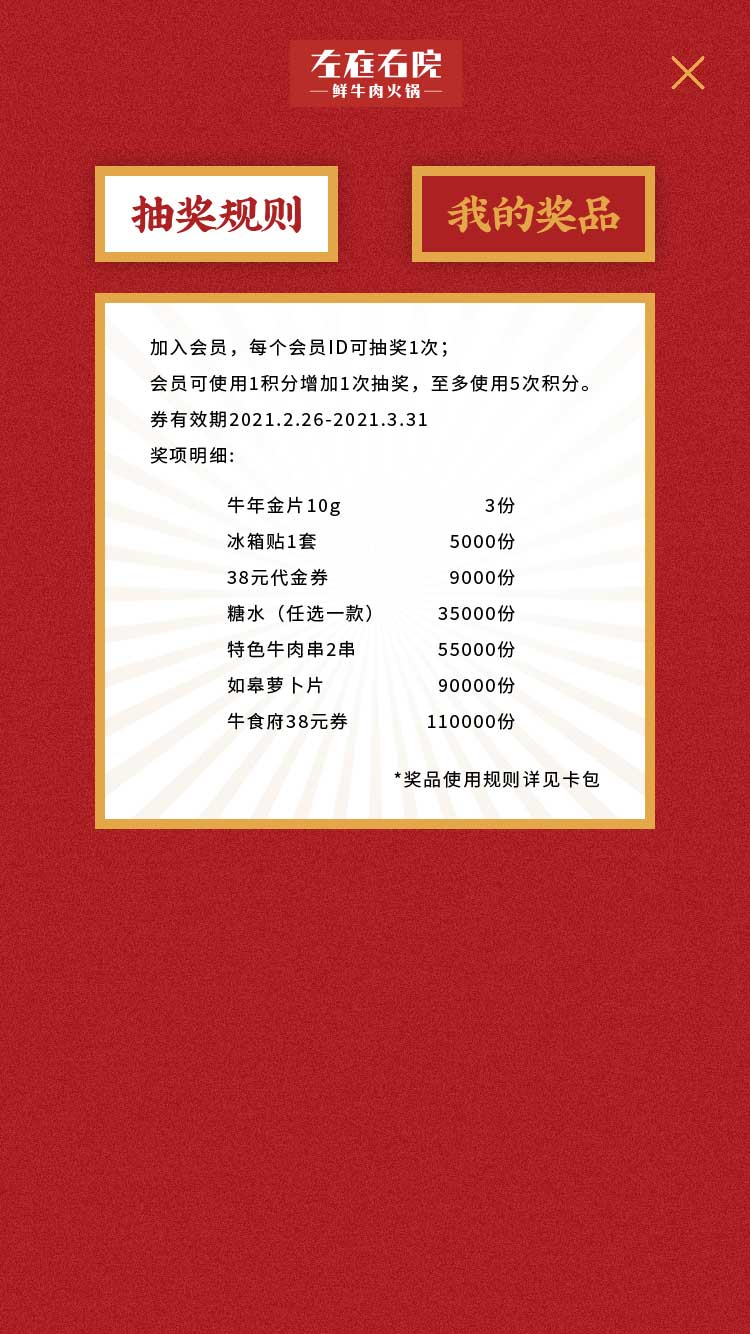
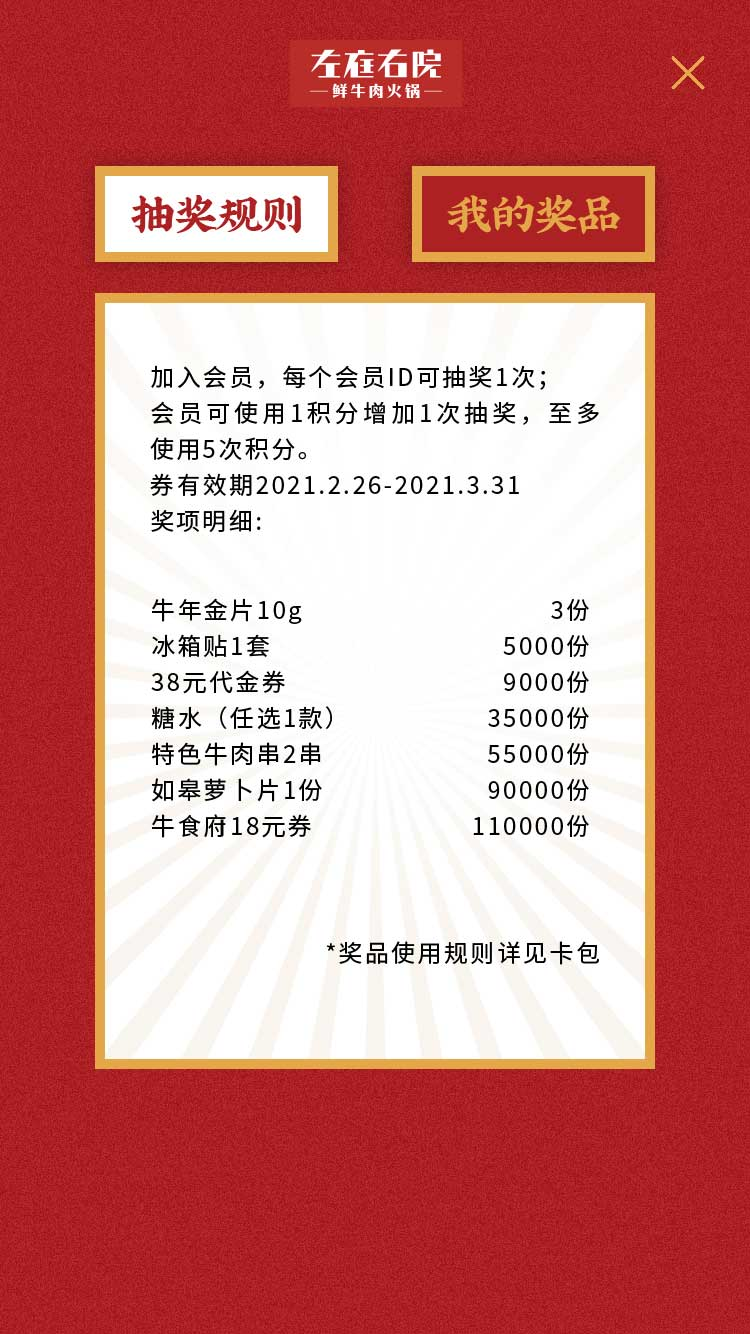
更新规则

Changed region(s): [[0.1227, 0.2459, 0.8893, 0.7991]]

diff --git a/左庭右院_抽奖/index.html b/左庭右院_抽奖/index.html
@@ -151,17 +151,44 @@
       <img src="img/game/game_5.jpg">
       <img src="img/game/game_6.jpg">
     </div>
-    <audio src="img/sound.mp3" loop="loop" autoplay="autoplay" id="media1"></audio>
+    <!-- <audio src="img/sound.mp3" loop="loop" autoplay="autoplay" id="media1"></audio> -->
   </div>
 </body>
 <script>
   $(function () {
     // $('.page2').show()
     /** 播放声音 */
-    setTimeout(() => {
-      let media1 = $("#media1").get(0)
-      media1.play()
-    }, 500)
+    // setTimeout(() => {
+    //   let media1 = $("#media1").get(0)
+    //   media1.play()
+    // }, 500)
+    function initMusic() {
+      //动态创建一个audio节点
+      var audio = document.createElement('audio');
+      audio.setAttribute('id', 'media1');
+      audio.setAttribute('autoplay', 'autoplay');
+      audio.setAttribute('loop', 'loop');
+      audio.innerHTML = '<source src="img/sound.mp3" type="audio/mpeg">';
+      
+      //将audio节点追加到dom
+      document.body.appendChild(audio);
+      audio.load();
+      
+     //iOS Safari可能是出于防止骚扰用户的考虑，首次非用户触发的play不会生效
+      audio.play();
+      audio.pause();
+      
+      document.addEventListener("WeixinJSBridgeReady", function () {
+        //微信H5环境，监听WeixinJSBridgeReady事件，再次进行play
+        //亲测iOS 微信H5页面能够自动播放
+        document.getElementById('media1').play();
+      }, false);
+    }
+
+    window.onload = function() {
+      //初始化一段音乐，并直接进行播放
+        initMusic();
+    }
     $('.btn-btn1').on('touchstart', function() {
       let media1 = $("#media1").get(0)
       media1.paused ? media1.play(): media1.pause()

diff --git a/左庭右院_抽奖/js/main.js b/左庭右院_抽奖/js/main.js
@@ -16,10 +16,10 @@ let prizeImgList = {
   '牛年金片10g': 'prize_4.png',
   '冰箱贴1套': 'prize_5.png',
   '38元代金券': 'prize_1.png',
-  '糖水（任选一款）': 'prize_7.png',
+  '糖水（任选1款）': 'prize_7.png',
   '特色牛肉串2串': 'prize_3.png',
-  '如皋萝卜片': 'prize_6.png',
-  '牛食府38元券': 'prize_2.png',
+  '如皋萝卜片1份': 'prize_6.png',
+  '牛食府18元券': 'prize_2.png',
   '谢谢惠顾': 'prize_8.png'
 }
 /**
